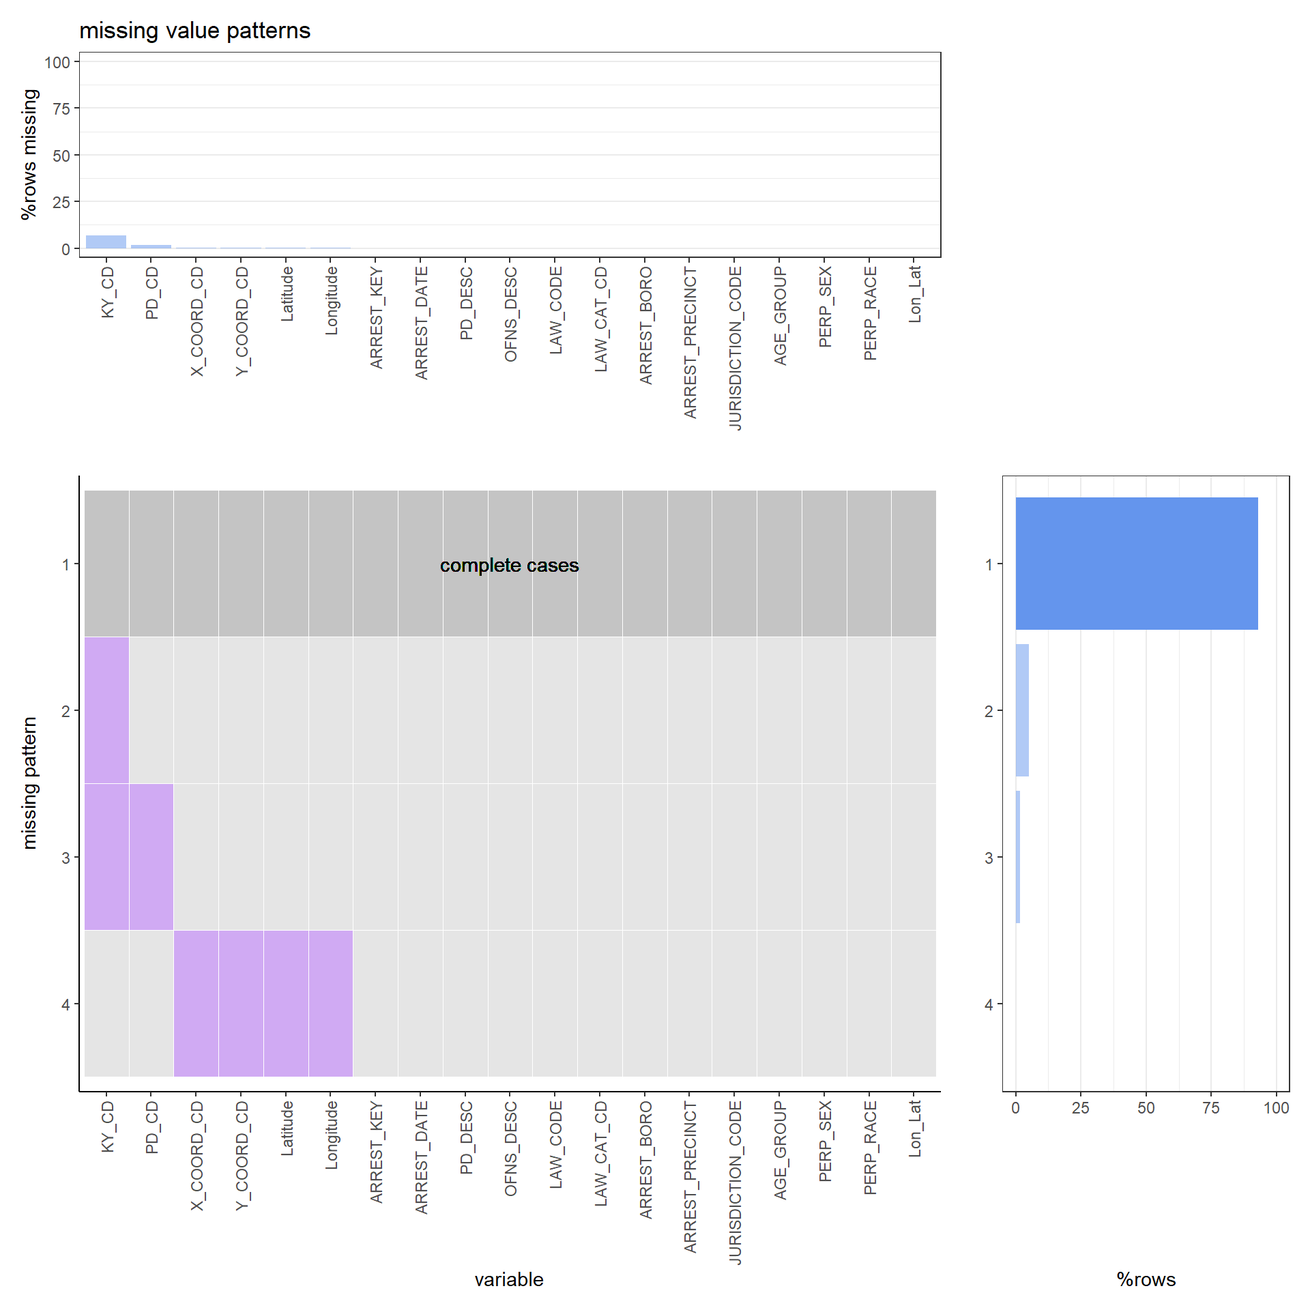
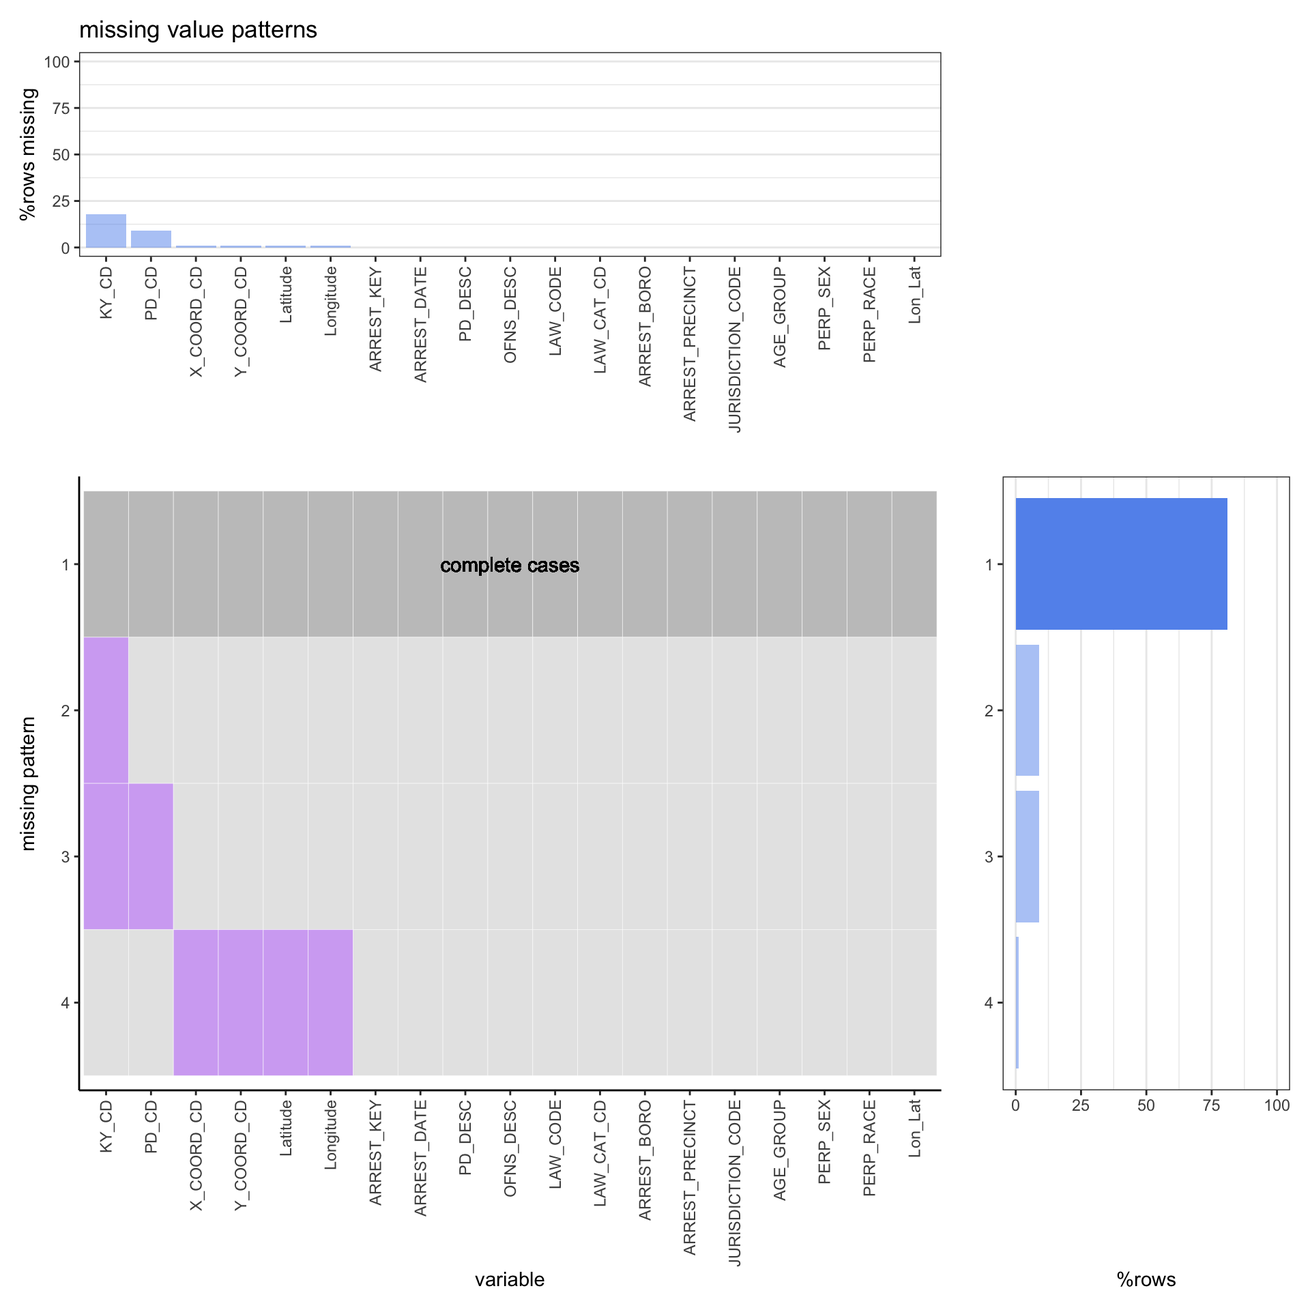
update for missing value insights by sny

diff --git a/docs/missing-values.html b/docs/missing-values.html
@@ -33,7 +33,7 @@
   
 <link rel="prev" href="data-transformation.html"/>
 <link rel="next" href="results.html"/>
-<script src="libs/header-attrs-2.11/header-attrs.js"></script>
+<script src="libs/header-attrs-2.10/header-attrs.js"></script>
 <script src="libs/jquery-3.6.0/jquery-3.6.0.min.js"></script>
 <script src="https://cdn.jsdelivr.net/npm/fuse.js@6.4.6/dist/fuse.min.js"></script>
 <link href="libs/gitbook-2.6.7/css/style.css" rel="stylesheet" />
@@ -142,9 +142,9 @@ code span.wa { color: #60a0b0; font-weight: bold; font-style: italic; } /* Warni
 <li class="chapter" data-level="3" data-path="data-transformation.html"><a href="data-transformation.html"><i class="fa fa-check"></i><b>3</b> Data transformation</a></li>
 <li class="chapter" data-level="4" data-path="missing-values.html"><a href="missing-values.html"><i class="fa fa-check"></i><b>4</b> Missing values</a>
 <ul>
-<li class="chapter" data-level="4.0.1" data-path="missing-values.html"><a href="missing-values.html#data-1"><i class="fa fa-check"></i><b>4.0.1</b> DATA-1</a></li>
-<li class="chapter" data-level="4.0.2" data-path="missing-values.html"><a href="missing-values.html#data-2"><i class="fa fa-check"></i><b>4.0.2</b> DATA-2</a></li>
-<li class="chapter" data-level="4.0.3" data-path="missing-values.html"><a href="missing-values.html#data-3"><i class="fa fa-check"></i><b>4.0.3</b> DATA-3</a></li>
+<li class="chapter" data-level="4.0.1" data-path="missing-values.html"><a href="missing-values.html#data-1-arrest-historic-data"><i class="fa fa-check"></i><b>4.0.1</b> DATA-1 Arrest Historic Data</a></li>
+<li class="chapter" data-level="4.0.2" data-path="missing-values.html"><a href="missing-values.html#data-2-covid-19-data"><i class="fa fa-check"></i><b>4.0.2</b> DATA-2 COVID-19 Data</a></li>
+<li class="chapter" data-level="4.0.3" data-path="missing-values.html"><a href="missing-values.html#data-3-mental-health-data"><i class="fa fa-check"></i><b>4.0.3</b> DATA-3 Mental Health Data</a></li>
 </ul></li>
 <li class="chapter" data-level="5" data-path="results.html"><a href="results.html"><i class="fa fa-check"></i><b>5</b> Results</a></li>
 <li class="chapter" data-level="6" data-path="interactive-component.html"><a href="interactive-component.html"><i class="fa fa-check"></i><b>6</b> Interactive component</a></li>
@@ -170,30 +170,39 @@ code span.wa { color: #60a0b0; font-weight: bold; font-style: italic; } /* Warni
             <section class="normal" id="section-">
 <div id="missing-values" class="section level1" number="4">
 <h1><span class="header-section-number">Chapter 4</span> Missing values</h1>
-<div id="data-1" class="section level3" number="4.0.1">
-<h3><span class="header-section-number">4.0.1</span> DATA-1</h3>
+<div id="data-1-arrest-historic-data" class="section level3" number="4.0.1">
+<h3><span class="header-section-number">4.0.1</span> DATA-1 Arrest Historic Data</h3>
 <div class="sourceCode" id="cb1"><pre class="sourceCode r"><code class="sourceCode r"><span id="cb1-1"><a href="missing-values.html#cb1-1" aria-hidden="true" tabindex="-1"></a><span class="fu">source</span>(<span class="st">&quot;plot_missing.R&quot;</span>)</span>
-<span id="cb1-2"><a href="missing-values.html#cb1-2" aria-hidden="true" tabindex="-1"></a>nyc <span class="ot">&lt;-</span> <span class="fu">read.csv</span>(<span class="st">&quot;NYPD_Arrests_Data__Historic_.csv&quot;</span>, <span class="at">nrows =</span> <span class="dv">1000</span>)</span>
-<span id="cb1-3"><a href="missing-values.html#cb1-3" aria-hidden="true" tabindex="-1"></a><span class="fu">plot_missing</span>(nyc, <span class="at">percent =</span> <span class="cn">TRUE</span>)</span></code></pre></div>
+<span id="cb1-2"><a href="missing-values.html#cb1-2" aria-hidden="true" tabindex="-1"></a>nyc <span class="ot">&lt;-</span> <span class="fu">read.csv</span>(<span class="st">&quot;NYPD_Arrests_Data__Historic_.csv&quot;</span>, <span class="at">nrows =</span> <span class="dv">100</span>)</span>
+<span id="cb1-3"><a href="missing-values.html#cb1-3" aria-hidden="true" tabindex="-1"></a><span class="fu">plot_missing</span>(nyc, <span class="at">percent =</span> <span class="cn">TRUE</span>,<span class="at">angle=</span><span class="dv">90</span>,<span class="at">hjust=</span><span class="dv">1</span>)</span></code></pre></div>
 <p><img src="finalproj_files/figure-html/unnamed-chunk-5-1.png" width="960" /></p>
-<p>Insights:
-* In order to draw the picture more clearly, we select 10,000 rows of data for missing value plot.
-* We can conclude that KY_CD and PD_CD have the highest percentage of missing value. Besides, X_COORD_CD, Y_COORD_CD, Latitude and Longitude belong to geographic location information and tend to miss together.
-* Since the proportion of missing value for all column is small in total, so our dataset’s quality is good. We may just remove the rows which has missing value when we do the following analysis.</p>
+<p>Insights:</p>
+<ol style="list-style-type: lower-alpha">
+<li><p>In order to draw the picture more clearly, we select 100 rows of data for missing value plot.</p></li>
+<li><p>We can conclude that KY_CD and PD_CD have the highest percentage of missing value. Besides, X_COORD_CD, Y_COORD_CD, Latitude and Longitude belong to geographic location information and tend to miss together.</p></li>
+</ol>
+<p>c)Since the proportion of missing value for all column is small in total, so our dataset has good quality. We may just remove the rows which has missing value when we do the following analysis.</p>
 </div>
-<div id="data-2" class="section level3" number="4.0.2">
-<h3><span class="header-section-number">4.0.2</span> DATA-2</h3>
+<div id="data-2-covid-19-data" class="section level3" number="4.0.2">
+<h3><span class="header-section-number">4.0.2</span> DATA-2 COVID-19 Data</h3>
 <div class="sourceCode" id="cb2"><pre class="sourceCode r"><code class="sourceCode r"><span id="cb2-1"><a href="missing-values.html#cb2-1" aria-hidden="true" tabindex="-1"></a>covid <span class="ot">&lt;-</span> <span class="fu">read.csv</span>(<span class="st">&quot;COVID-19_Daily_Counts_of_Cases__Hospitalizations__and_Deaths.csv&quot;</span>, <span class="at">nrows =</span> <span class="dv">100</span>)</span>
-<span id="cb2-2"><a href="missing-values.html#cb2-2" aria-hidden="true" tabindex="-1"></a><span class="fu">plot_missing</span>(covid, <span class="at">percent =</span> <span class="cn">TRUE</span>)</span></code></pre></div>
+<span id="cb2-2"><a href="missing-values.html#cb2-2" aria-hidden="true" tabindex="-1"></a><span class="fu">plot_missing</span>(covid, <span class="at">percent =</span> <span class="cn">TRUE</span>,<span class="at">angle=</span><span class="dv">90</span>,<span class="at">hjust=</span><span class="dv">1</span>)</span></code></pre></div>
 <p><img src="finalproj_files/figure-html/unnamed-chunk-6-1.png" width="960" />
-Insights:
-This is no missing value in this dataset~</p>
+Insights:</p>
+<ol style="list-style-type: lower-alpha">
+<li>This is no missing value in this dataset so that we don’t need to preprocess it.</li>
+</ol>
 </div>
-<div id="data-3" class="section level3" number="4.0.3">
-<h3><span class="header-section-number">4.0.3</span> DATA-3</h3>
-<div class="sourceCode" id="cb3"><pre class="sourceCode r"><code class="sourceCode r"><span id="cb3-1"><a href="missing-values.html#cb3-1" aria-hidden="true" tabindex="-1"></a>mental <span class="ot">&lt;-</span> <span class="fu">read.csv</span>(<span class="st">&quot;Mental_Health_Service_Finder_Data.csv&quot;</span>, <span class="at">nrows =</span> <span class="dv">50</span>)</span>
-<span id="cb3-2"><a href="missing-values.html#cb3-2" aria-hidden="true" tabindex="-1"></a><span class="fu">plot_missing</span>(mental, <span class="at">percent =</span> <span class="cn">TRUE</span>)</span></code></pre></div>
+<div id="data-3-mental-health-data" class="section level3" number="4.0.3">
+<h3><span class="header-section-number">4.0.3</span> DATA-3 Mental Health Data</h3>
+<div class="sourceCode" id="cb3"><pre class="sourceCode r"><code class="sourceCode r"><span id="cb3-1"><a href="missing-values.html#cb3-1" aria-hidden="true" tabindex="-1"></a>mental <span class="ot">&lt;-</span> <span class="fu">read.csv</span>(<span class="st">&quot;Mental_Health_Service_Finder_Data.csv&quot;</span>, <span class="at">nrows =</span> <span class="dv">100</span>)</span>
+<span id="cb3-2"><a href="missing-values.html#cb3-2" aria-hidden="true" tabindex="-1"></a><span class="fu">plot_missing</span>(mental, <span class="at">percent =</span> <span class="cn">TRUE</span>,<span class="at">angle=</span><span class="dv">90</span>,<span class="at">hjust=</span><span class="dv">1</span>)</span></code></pre></div>
 <p><img src="finalproj_files/figure-html/unnamed-chunk-7-1.png" width="960" /></p>
+<p>Insights:</p>
+<ol style="list-style-type: lower-alpha">
+<li><p>Firstly, some columns like flag_vet, flag_pw, flag_si and so on have really high missing percentage(100% in our 100 sample), which will be discarded in our further analysis.</p></li>
+<li><p>In this dataset, the basic information such as name/phone/position is relatively complete while the measurements about mental health has much more missing value. So maybe we can explore the meaning of specific indicators and conclude people’s overall psychological condition in one district to avoid the drawbacks bringed by missing value.</p></li>
+</ol>
 
 </div>
 </div>

diff --git a/docs/data-transformation.html b/docs/data-transformation.html
@@ -33,7 +33,7 @@
   
 <link rel="prev" href="data-sources.html"/>
 <link rel="next" href="missing-values.html"/>
-<script src="libs/header-attrs-2.11/header-attrs.js"></script>
+<script src="libs/header-attrs-2.10/header-attrs.js"></script>
 <script src="libs/jquery-3.6.0/jquery-3.6.0.min.js"></script>
 <script src="https://cdn.jsdelivr.net/npm/fuse.js@6.4.6/dist/fuse.min.js"></script>
 <link href="libs/gitbook-2.6.7/css/style.css" rel="stylesheet" />
@@ -142,9 +142,9 @@ code span.wa { color: #60a0b0; font-weight: bold; font-style: italic; } /* Warni
 <li class="chapter" data-level="3" data-path="data-transformation.html"><a href="data-transformation.html"><i class="fa fa-check"></i><b>3</b> Data transformation</a></li>
 <li class="chapter" data-level="4" data-path="missing-values.html"><a href="missing-values.html"><i class="fa fa-check"></i><b>4</b> Missing values</a>
 <ul>
-<li class="chapter" data-level="4.0.1" data-path="missing-values.html"><a href="missing-values.html#data-1"><i class="fa fa-check"></i><b>4.0.1</b> DATA-1</a></li>
-<li class="chapter" data-level="4.0.2" data-path="missing-values.html"><a href="missing-values.html#data-2"><i class="fa fa-check"></i><b>4.0.2</b> DATA-2</a></li>
-<li class="chapter" data-level="4.0.3" data-path="missing-values.html"><a href="missing-values.html#data-3"><i class="fa fa-check"></i><b>4.0.3</b> DATA-3</a></li>
+<li class="chapter" data-level="4.0.1" data-path="missing-values.html"><a href="missing-values.html#data-1-arrest-historic-data"><i class="fa fa-check"></i><b>4.0.1</b> DATA-1 Arrest Historic Data</a></li>
+<li class="chapter" data-level="4.0.2" data-path="missing-values.html"><a href="missing-values.html#data-2-covid-19-data"><i class="fa fa-check"></i><b>4.0.2</b> DATA-2 COVID-19 Data</a></li>
+<li class="chapter" data-level="4.0.3" data-path="missing-values.html"><a href="missing-values.html#data-3-mental-health-data"><i class="fa fa-check"></i><b>4.0.3</b> DATA-3 Mental Health Data</a></li>
 </ul></li>
 <li class="chapter" data-level="5" data-path="results.html"><a href="results.html"><i class="fa fa-check"></i><b>5</b> Results</a></li>
 <li class="chapter" data-level="6" data-path="interactive-component.html"><a href="interactive-component.html"><i class="fa fa-check"></i><b>6</b> Interactive component</a></li>
@@ -170,7 +170,7 @@ code span.wa { color: #60a0b0; font-weight: bold; font-style: italic; } /* Warni
             <section class="normal" id="section-">
 <div id="data-transformation" class="section level1" number="3">
 <h1><span class="header-section-number">Chapter 3</span> Data transformation</h1>
-<p>this is for test!!!</p>
+<p>this is for test~</p>
 
 </div>
             </section>

diff --git a/docs/results.html b/docs/results.html
@@ -33,7 +33,7 @@
   
 <link rel="prev" href="missing-values.html"/>
 <link rel="next" href="interactive-component.html"/>
-<script src="libs/header-attrs-2.11/header-attrs.js"></script>
+<script src="libs/header-attrs-2.10/header-attrs.js"></script>
 <script src="libs/jquery-3.6.0/jquery-3.6.0.min.js"></script>
 <script src="https://cdn.jsdelivr.net/npm/fuse.js@6.4.6/dist/fuse.min.js"></script>
 <link href="libs/gitbook-2.6.7/css/style.css" rel="stylesheet" />
@@ -142,9 +142,9 @@ code span.wa { color: #60a0b0; font-weight: bold; font-style: italic; } /* Warni
 <li class="chapter" data-level="3" data-path="data-transformation.html"><a href="data-transformation.html"><i class="fa fa-check"></i><b>3</b> Data transformation</a></li>
 <li class="chapter" data-level="4" data-path="missing-values.html"><a href="missing-values.html"><i class="fa fa-check"></i><b>4</b> Missing values</a>
 <ul>
-<li class="chapter" data-level="4.0.1" data-path="missing-values.html"><a href="missing-values.html#data-1"><i class="fa fa-check"></i><b>4.0.1</b> DATA-1</a></li>
-<li class="chapter" data-level="4.0.2" data-path="missing-values.html"><a href="missing-values.html#data-2"><i class="fa fa-check"></i><b>4.0.2</b> DATA-2</a></li>
-<li class="chapter" data-level="4.0.3" data-path="missing-values.html"><a href="missing-values.html#data-3"><i class="fa fa-check"></i><b>4.0.3</b> DATA-3</a></li>
+<li class="chapter" data-level="4.0.1" data-path="missing-values.html"><a href="missing-values.html#data-1-arrest-historic-data"><i class="fa fa-check"></i><b>4.0.1</b> DATA-1 Arrest Historic Data</a></li>
+<li class="chapter" data-level="4.0.2" data-path="missing-values.html"><a href="missing-values.html#data-2-covid-19-data"><i class="fa fa-check"></i><b>4.0.2</b> DATA-2 COVID-19 Data</a></li>
+<li class="chapter" data-level="4.0.3" data-path="missing-values.html"><a href="missing-values.html#data-3-mental-health-data"><i class="fa fa-check"></i><b>4.0.3</b> DATA-3 Mental Health Data</a></li>
 </ul></li>
 <li class="chapter" data-level="5" data-path="results.html"><a href="results.html"><i class="fa fa-check"></i><b>5</b> Results</a></li>
 <li class="chapter" data-level="6" data-path="interactive-component.html"><a href="interactive-component.html"><i class="fa fa-check"></i><b>6</b> Interactive component</a></li>

diff --git a/docs/data-sources.html b/docs/data-sources.html
@@ -33,7 +33,7 @@
   
 <link rel="prev" href="index.html"/>
 <link rel="next" href="data-transformation.html"/>
-<script src="libs/header-attrs-2.11/header-attrs.js"></script>
+<script src="libs/header-attrs-2.10/header-attrs.js"></script>
 <script src="libs/jquery-3.6.0/jquery-3.6.0.min.js"></script>
 <script src="https://cdn.jsdelivr.net/npm/fuse.js@6.4.6/dist/fuse.min.js"></script>
 <link href="libs/gitbook-2.6.7/css/style.css" rel="stylesheet" />
@@ -142,9 +142,9 @@ code span.wa { color: #60a0b0; font-weight: bold; font-style: italic; } /* Warni
 <li class="chapter" data-level="3" data-path="data-transformation.html"><a href="data-transformation.html"><i class="fa fa-check"></i><b>3</b> Data transformation</a></li>
 <li class="chapter" data-level="4" data-path="missing-values.html"><a href="missing-values.html"><i class="fa fa-check"></i><b>4</b> Missing values</a>
 <ul>
-<li class="chapter" data-level="4.0.1" data-path="missing-values.html"><a href="missing-values.html#data-1"><i class="fa fa-check"></i><b>4.0.1</b> DATA-1</a></li>
-<li class="chapter" data-level="4.0.2" data-path="missing-values.html"><a href="missing-values.html#data-2"><i class="fa fa-check"></i><b>4.0.2</b> DATA-2</a></li>
-<li class="chapter" data-level="4.0.3" data-path="missing-values.html"><a href="missing-values.html#data-3"><i class="fa fa-check"></i><b>4.0.3</b> DATA-3</a></li>
+<li class="chapter" data-level="4.0.1" data-path="missing-values.html"><a href="missing-values.html#data-1-arrest-historic-data"><i class="fa fa-check"></i><b>4.0.1</b> DATA-1 Arrest Historic Data</a></li>
+<li class="chapter" data-level="4.0.2" data-path="missing-values.html"><a href="missing-values.html#data-2-covid-19-data"><i class="fa fa-check"></i><b>4.0.2</b> DATA-2 COVID-19 Data</a></li>
+<li class="chapter" data-level="4.0.3" data-path="missing-values.html"><a href="missing-values.html#data-3-mental-health-data"><i class="fa fa-check"></i><b>4.0.3</b> DATA-3 Mental Health Data</a></li>
 </ul></li>
 <li class="chapter" data-level="5" data-path="results.html"><a href="results.html"><i class="fa fa-check"></i><b>5</b> Results</a></li>
 <li class="chapter" data-level="6" data-path="interactive-component.html"><a href="interactive-component.html"><i class="fa fa-check"></i><b>6</b> Interactive component</a></li>

diff --git a/docs/interactive-component.html b/docs/interactive-component.html
@@ -33,7 +33,7 @@
   
 <link rel="prev" href="results.html"/>
 <link rel="next" href="conclusion.html"/>
-<script src="libs/header-attrs-2.11/header-attrs.js"></script>
+<script src="libs/header-attrs-2.10/header-attrs.js"></script>
 <script src="libs/jquery-3.6.0/jquery-3.6.0.min.js"></script>
 <script src="https://cdn.jsdelivr.net/npm/fuse.js@6.4.6/dist/fuse.min.js"></script>
 <link href="libs/gitbook-2.6.7/css/style.css" rel="stylesheet" />
@@ -142,9 +142,9 @@ code span.wa { color: #60a0b0; font-weight: bold; font-style: italic; } /* Warni
 <li class="chapter" data-level="3" data-path="data-transformation.html"><a href="data-transformation.html"><i class="fa fa-check"></i><b>3</b> Data transformation</a></li>
 <li class="chapter" data-level="4" data-path="missing-values.html"><a href="missing-values.html"><i class="fa fa-check"></i><b>4</b> Missing values</a>
 <ul>
-<li class="chapter" data-level="4.0.1" data-path="missing-values.html"><a href="missing-values.html#data-1"><i class="fa fa-check"></i><b>4.0.1</b> DATA-1</a></li>
-<li class="chapter" data-level="4.0.2" data-path="missing-values.html"><a href="missing-values.html#data-2"><i class="fa fa-check"></i><b>4.0.2</b> DATA-2</a></li>
-<li class="chapter" data-level="4.0.3" data-path="missing-values.html"><a href="missing-values.html#data-3"><i class="fa fa-check"></i><b>4.0.3</b> DATA-3</a></li>
+<li class="chapter" data-level="4.0.1" data-path="missing-values.html"><a href="missing-values.html#data-1-arrest-historic-data"><i class="fa fa-check"></i><b>4.0.1</b> DATA-1 Arrest Historic Data</a></li>
+<li class="chapter" data-level="4.0.2" data-path="missing-values.html"><a href="missing-values.html#data-2-covid-19-data"><i class="fa fa-check"></i><b>4.0.2</b> DATA-2 COVID-19 Data</a></li>
+<li class="chapter" data-level="4.0.3" data-path="missing-values.html"><a href="missing-values.html#data-3-mental-health-data"><i class="fa fa-check"></i><b>4.0.3</b> DATA-3 Mental Health Data</a></li>
 </ul></li>
 <li class="chapter" data-level="5" data-path="results.html"><a href="results.html"><i class="fa fa-check"></i><b>5</b> Results</a></li>
 <li class="chapter" data-level="6" data-path="interactive-component.html"><a href="interactive-component.html"><i class="fa fa-check"></i><b>6</b> Interactive component</a></li>

diff --git a/docs/conclusion.html b/docs/conclusion.html
@@ -33,7 +33,7 @@
   
 <link rel="prev" href="interactive-component.html"/>
 
-<script src="libs/header-attrs-2.11/header-attrs.js"></script>
+<script src="libs/header-attrs-2.10/header-attrs.js"></script>
 <script src="libs/jquery-3.6.0/jquery-3.6.0.min.js"></script>
 <script src="https://cdn.jsdelivr.net/npm/fuse.js@6.4.6/dist/fuse.min.js"></script>
 <link href="libs/gitbook-2.6.7/css/style.css" rel="stylesheet" />
@@ -142,9 +142,9 @@ code span.wa { color: #60a0b0; font-weight: bold; font-style: italic; } /* Warni
 <li class="chapter" data-level="3" data-path="data-transformation.html"><a href="data-transformation.html"><i class="fa fa-check"></i><b>3</b> Data transformation</a></li>
 <li class="chapter" data-level="4" data-path="missing-values.html"><a href="missing-values.html"><i class="fa fa-check"></i><b>4</b> Missing values</a>
 <ul>
-<li class="chapter" data-level="4.0.1" data-path="missing-values.html"><a href="missing-values.html#data-1"><i class="fa fa-check"></i><b>4.0.1</b> DATA-1</a></li>
-<li class="chapter" data-level="4.0.2" data-path="missing-values.html"><a href="missing-values.html#data-2"><i class="fa fa-check"></i><b>4.0.2</b> DATA-2</a></li>
-<li class="chapter" data-level="4.0.3" data-path="missing-values.html"><a href="missing-values.html#data-3"><i class="fa fa-check"></i><b>4.0.3</b> DATA-3</a></li>
+<li class="chapter" data-level="4.0.1" data-path="missing-values.html"><a href="missing-values.html#data-1-arrest-historic-data"><i class="fa fa-check"></i><b>4.0.1</b> DATA-1 Arrest Historic Data</a></li>
+<li class="chapter" data-level="4.0.2" data-path="missing-values.html"><a href="missing-values.html#data-2-covid-19-data"><i class="fa fa-check"></i><b>4.0.2</b> DATA-2 COVID-19 Data</a></li>
+<li class="chapter" data-level="4.0.3" data-path="missing-values.html"><a href="missing-values.html#data-3-mental-health-data"><i class="fa fa-check"></i><b>4.0.3</b> DATA-3 Mental Health Data</a></li>
 </ul></li>
 <li class="chapter" data-level="5" data-path="results.html"><a href="results.html"><i class="fa fa-check"></i><b>5</b> Results</a></li>
 <li class="chapter" data-level="6" data-path="interactive-component.html"><a href="interactive-component.html"><i class="fa fa-check"></i><b>6</b> Interactive component</a></li>

diff --git a/docs/index.html b/docs/index.html
@@ -33,7 +33,7 @@
   
 
 <link rel="next" href="data-sources.html"/>
-<script src="libs/header-attrs-2.11/header-attrs.js"></script>
+<script src="libs/header-attrs-2.10/header-attrs.js"></script>
 <script src="libs/jquery-3.6.0/jquery-3.6.0.min.js"></script>
 <script src="https://cdn.jsdelivr.net/npm/fuse.js@6.4.6/dist/fuse.min.js"></script>
 <link href="libs/gitbook-2.6.7/css/style.css" rel="stylesheet" />
@@ -142,9 +142,9 @@ code span.wa { color: #60a0b0; font-weight: bold; font-style: italic; } /* Warni
 <li class="chapter" data-level="3" data-path="data-transformation.html"><a href="data-transformation.html"><i class="fa fa-check"></i><b>3</b> Data transformation</a></li>
 <li class="chapter" data-level="4" data-path="missing-values.html"><a href="missing-values.html"><i class="fa fa-check"></i><b>4</b> Missing values</a>
 <ul>
-<li class="chapter" data-level="4.0.1" data-path="missing-values.html"><a href="missing-values.html#data-1"><i class="fa fa-check"></i><b>4.0.1</b> DATA-1</a></li>
-<li class="chapter" data-level="4.0.2" data-path="missing-values.html"><a href="missing-values.html#data-2"><i class="fa fa-check"></i><b>4.0.2</b> DATA-2</a></li>
-<li class="chapter" data-level="4.0.3" data-path="missing-values.html"><a href="missing-values.html#data-3"><i class="fa fa-check"></i><b>4.0.3</b> DATA-3</a></li>
+<li class="chapter" data-level="4.0.1" data-path="missing-values.html"><a href="missing-values.html#data-1-arrest-historic-data"><i class="fa fa-check"></i><b>4.0.1</b> DATA-1 Arrest Historic Data</a></li>
+<li class="chapter" data-level="4.0.2" data-path="missing-values.html"><a href="missing-values.html#data-2-covid-19-data"><i class="fa fa-check"></i><b>4.0.2</b> DATA-2 COVID-19 Data</a></li>
+<li class="chapter" data-level="4.0.3" data-path="missing-values.html"><a href="missing-values.html#data-3-mental-health-data"><i class="fa fa-check"></i><b>4.0.3</b> DATA-3 Mental Health Data</a></li>
 </ul></li>
 <li class="chapter" data-level="5" data-path="results.html"><a href="results.html"><i class="fa fa-check"></i><b>5</b> Results</a></li>
 <li class="chapter" data-level="6" data-path="interactive-component.html"><a href="interactive-component.html"><i class="fa fa-check"></i><b>6</b> Interactive component</a></li>
